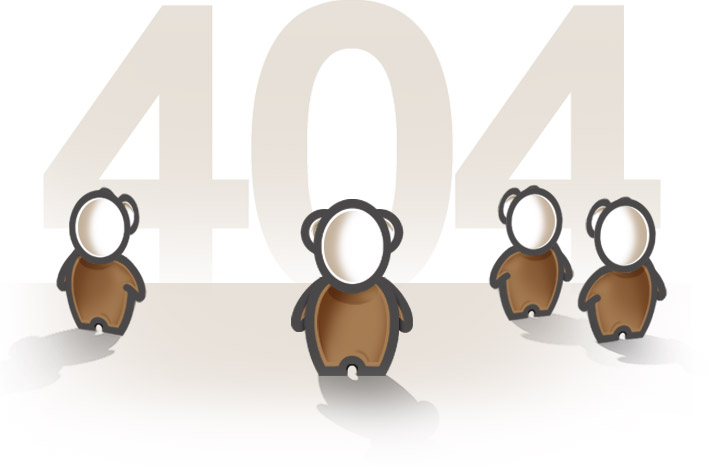
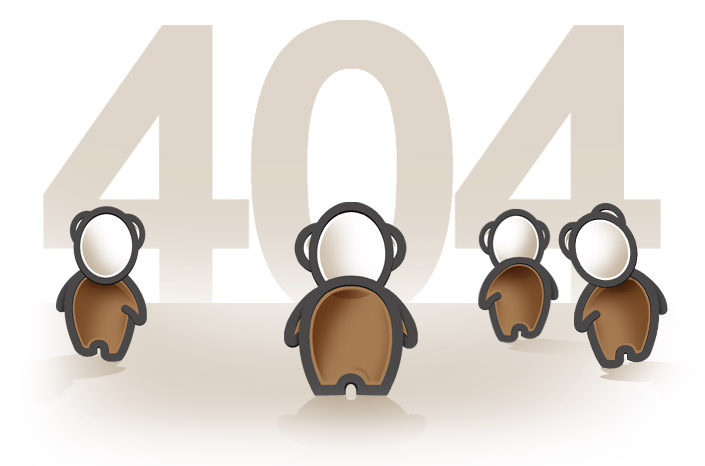
Corrections diverses, formulaire auteur
git-svn-id: http://svn.pierrebertet.net/lesintegristes_wptheme/trunk@55 156c5556-8ead-41bd-8221-c85054dfef69

diff --git a/style.css b/style.css
@@ -68,16 +68,13 @@ body,button,input,textarea{font:14px/24px Verdana, Helvetica, sans-serif;color:#
 pre,code{font:12px/24px "DejaVuSansMonoBook", "Courier New", monospace;color:#494949;background:#ece4d6;}
 code{display:inline-block;padding:0 6px;line-height:22px;vertical-align:bottom;}
 pre code{display:block;position:static;padding:0;line-height:24px;}
-/*a code{text-decoration:underline;}*/
+a code{text-decoration:underline;}
 a{color:#83a10f;}
 b,strong{font-weight:bold;}
 i,em{font-style:italic;}
-#content a:hover,
-#sidebar a:hover{color:#96b713;}
+#content a:hover{color:#96b713;}
 #content a:active,
-#content a:focus,
-#sidebar a:active,
-#sidebar a:focus{color:#fff;background:#96b713;}
+#content a:focus{color:#fff;background:#96b713;}
 #wrapper a.action,
 #wrapper .action a{font-style:italic;text-transform:lowercase;color:#494949;}
 #wrapper a.action:hover,
@@ -105,24 +102,46 @@ input[type=text],
 textarea{-moz-box-shadow:inset 2px 2px 2px #aaa;-webkit-box-shadow:inset 2px 2px 2px #aaa;}
 
 /* Hentry */
-.hentry .content h2{font-size:20px;font-weight:bold;margin-top:48px;margin-bottom:24px;color:#494949;}
-.hentry .content h3{font-size:16px;font-weight:bold;margin:24px 0;color:#857e76;}
-.hentry .content h4{font-weight:bold;margin:24px 0;color:#857e76;}
-.hentry .content h5{margin:24px 0;color:#857e76;}
-.hentry .content h6{margin:24px 0;font-style:italic;color:#857e76;}
-.hentry .content ul{margin:24px 0;padding-left:40px;}
+.hentry .content h2{font-size:20px;font-weight:bold;padding-top:48px;margin:-24px 0 24px;color:#494949;}
+.hentry .content h3{font-size:16px;font-weight:bold;padding-top:24px;margin:-24px 0 24px;color:#857e76;}
+.hentry .content h4{font-weight:bold;padding-top:24px;margin:-24px 0 24px;color:#857e76;}
+.hentry .content h5{padding-top:24px;margin:-24px 0 24px;color:#857e76;}
+.hentry .content h6{padding-top:24px;margin:-24px 0 24px;font-style:italic;color:#857e76;}
+.hentry .content ul,
+.hentry .content ol{margin:0 0 24px;padding-left:40px;}
 .hentry .content ul li{padding-left:18px;background:url(i/bullet.png) no-repeat 0 10px;}
-.hentry .content ol{padding-left:40px;}
 .hentry .content ol li{list-style:inside decimal;}
 .hentry .content dl{padding-left:40px;}
 .hentry .content dl dt{margin-left:-10px;font-weight:bold;}
 .hentry .content pre{overflow-x:auto;margin-bottom:24px;}
 .hentry .content a code{padding:0;background:none;color:inherit;}
 .hentry .content blockquote{margin-bottom:24px;padding:36px 36px 36px;font:italic 16px/24px Georgia, Times, serif;text-indent:14px;color:#857e76;background:url(i/quote-open.png) no-repeat 16px 16px;background:url(i/quote-open.png) no-repeat 16px 16px, url(i/quote-close.png) no-repeat 100% 100%;background-color:#ece4d6;}
-.hentry .content img{vertical-align:bottom;outline:3px solid #ece4d6;}
-.hentry .content figure{display:inline-block;padding-bottom:12px;text-align:center;outline:3px solid #ece4d6;}
-.hentry .content figure img{margin-bottom:12px;outline:0;}
 #content .hentry .content blockquote p{margin:0;}
+#content .hentry .content img{position:relative;left:3px;vertical-align:bottom;outline:3px solid #ece4d6;}
+#content .hentry .content p.img-only{margin-bottom:0;}
+#content .hentry .content img.alignnone,
+#content .hentry .content img.aligncenter{display:block;margin:0 auto;}
+#content .hentry .content img.alignleft{float:left;margin-right:18px;}
+#content .hentry .content img.alignright{float:right;margin-left:18px;}
+#content .hentry .content .wp-caption .wp-caption-text{margin:0;text-align:center;font-size:12px;color:#857e76;}
+#content .hentry .content .wp-caption.alignleft{float:left;margin-right:8px;}
+#content .hentry .content .wp-caption.alignleft .wp-caption-text{padding:0 7px 0 3px;}
+#content .hentry .content .wp-caption.alignright{float:right;margin-left:8px;text-align:right;}
+#content .hentry .content .wp-caption.alignright img{left:auto;right:3px;}
+#content .hentry .content .wp-caption.alignright .wp-caption-text{padding:0 3px 0 7px;}
+#content .hentry .content .wp-caption.aligncenter,
+#content .hentry .content .wp-caption.alignnone{margin:0 auto;}
+.hentry .content h2,
+.hentry .content h3,
+.hentry .content h4,
+.hentry .content h5,
+.hentry .content h6,
+.hentry .content ul,
+.hentry .content dl,
+.hentry .content ol,
+.hentry .content blockquote,
+.hentry .content pre{clear:both;}
+
 
 /* Buttons */
 a.button{display:inline-block;text-decoration:none;}
@@ -324,7 +343,7 @@ body.meteo-night #wrapper > footer{background-image:url(i/meteo/night/footer.jpg
 #content > h1 + .rss,
 #post-29 > .rss:first-child{margin:0;}
 #content > h1 + .rss a,
-#post-29 > .rss:first-child a{position:absolute;top:4px;right:0;overflow:hidden;display:block;width:22px;height:21px;text-indent:-9999px;color:#494949;background:url(i/rss-icon.png) no-repeat 0 0;}
+#post-29 > .rss:first-child a{position:absolute;top:4px;right:0;overflow:hidden;display:block;width:22px;height:20px;text-indent:-9999px;color:#494949;background:url(i/rss-icon.png) no-repeat 0 0;}
 #content article{float:left;padding:36px 0 0;background:url(i/dashed-h.png) repeat-x 0 0;}
 body.single #content article{float:none;}
 /*#content h1 + article{padding-top:24px;}*/
@@ -425,36 +444,45 @@ body.page-id-29 #content li a:active{color:#fff;background:#6d6a6a;}
 body.page-id-29 #content li > div{padding:24px 12px 36px;background:#ece4d6;}
 
 /* Auteurs */
+#content.page-auteurs section h1{font:30px/48px Georgia, Times, serif;color:#83a10f;}
 #content.page-auteurs section.author{padding:0 0 48px 82px;background:url(i/dashed-h.png) repeat-x 0 0;}
 #content.page-auteurs section.author header{padding:60px 0 0 160px;}
 #content.page-auteurs section.author .content{position:relative;padding:24px 24px 48px 160px;background:#ece4d6;}
-#content.page-auteurs section.author h1{font:30px/48px Georgia, Times, serif;color:#83a10f;}
 #content.page-auteurs section.author h2{position:relative;top:-6px;margin:0;font-size:14px;font-style:italic;color:#494949;}
 #content.page-auteurs section.author .photo{position:absolute;left:20px;top:-60px;}
 #content.page-auteurs section.author .links li{margin-bottom:12px;padding-left:31px;}
+#content.page-auteurs section.author .links li a{color:#857e76;}
+#content.page-auteurs section.author .links li a:hover{color:#a29b94;}
+#content.page-auteurs section.author .links li a:active,
+#content.page-auteurs section.author .links li a:focus{color:#fff;background:#a29b94;}
 #content.page-auteurs section.author .links .home{background:url(i/icon-home.png) no-repeat 0 2px;}
 #content.page-auteurs section.author .links .twitter{background:url(i/icon-twitter.png) no-repeat 0 2px;}
 #content.page-auteurs section.author .mail{margin:36px 0 0 -42px;padding-left:42px;background:url(i/icon-mail.png) no-repeat 0 3px;}
 #content.page-auteurs section.author + .author header{padding-top:24px;}
-#content.page-auteurs p.invitation{margin:0;padding:26px 0 28px;text-align:center;color:#c2bbaf;border:6px solid #494949;border-width:6px 0;}
+#content.page-auteurs p.invitation{margin:0 0 36px;padding:26px 0 28px;text-align:center;color:#c2bbaf;background:url(i/dashed-h.png) repeat-x 0 0;border:6px solid #494949;border-width:0 0 6px;}
 #content.page-auteurs p.invitation strong{font:italic 28px/36px Georgia, Times, serif;}
-#content.page-auteurs section.contact h1{margin-bottom:35px;line-height:31px;font-size:16px;color:#857e76;background:url(i/dashed-h.png) repeat-x 0 100%;}
-#content.page-auteurs section.contact form{overflow:hidden;margin:0 89px;padding:24px 40px 12px;font-style:italic;background:#ece4d6;}
-#content.page-auteurs section.contact form p{float:left;width:100%;line-height:48px;margin-bottom:0;}
-#content.page-auteurs section.contact form p.form-info{margin-bottom:36px;line-height:24px;color:#857e76;}
-#content.page-auteurs section.contact form label{clear:left;float:left;width:94px;margin-top:6px;line-height:36px;white-space:nowrap;font-weight:bold;color:#857e76;}
-#content.page-auteurs section.contact form input[type=text]{width:247px;padding:6px;line-height:24px;text-align:left;border:0;}
-#content.page-auteurs section.contact form textarea{display:block;width:335px;height:240px;margin:9px 0;padding:3px 6px;border:0;} /* WIDTH A REVOIR */
+#content.page-auteurs section.contact h1{margin-bottom:36px;text-align:center;}
+#content.page-auteurs section.contact form{position:relative;float:left;width:473px;margin:0 0 0 105px;padding:24px 30px 12px;font-style:italic;background:#ece4d6;}
+#content.page-auteurs section.contact form p{position:relative;overflow:hidden;width:473px;line-height:48px;margin-bottom:12px;}
+#content.page-auteurs section.contact form p.form-info{margin-left:13px;margin-bottom:36px;line-height:24px;color:#857e76;}
+#content.page-auteurs section.contact form label{clear:left;float:left;width:84px;margin-top:6px;padding-left:10px;line-height:36px;white-space:nowrap;font-weight:bold;color:#857e76;}
+#content.page-auteurs section.contact form input[type=text]{width:247px;padding:7px;line-height:24px;text-align:left;border:0;}
+#content.page-auteurs section.contact form textarea{display:block;width:335px;height:240px;margin:9px 0;padding:3px 7px;border:0;} /* WIDTH A REVOIR */
 #content.page-auteurs section.contact form input[type=text]:focus,
 #content.page-auteurs section.contact form textarea:focus{outline:6px solid #beb6a7;}
 #content.page-auteurs section.contact form p.submit{text-align:right;}
-/*#content.page-auteurs section.contact form .wpcf7-response-output{margin:0;padding:0;border:0;}
+#content.page-auteurs section.contact form .wpcf7-validation-errors{background:#4a4a4a url(i/icon-error.png) no-repeat 437px 9px;}
+#content.page-auteurs section.contact form p.error{background:#4a4a4a;}
+#content.page-auteurs section.contact form p.error label{color:#ece4d6;}
+#content.page-auteurs section.contact form p.error .wpcf7-form-control-wrap{position:static;}
+#content.page-auteurs section.contact form p.error .wpcf7-not-valid-tip-no-ajax{position:absolute;right:0;top:0;width:45px;height:48px;text-indent:-9999px;background:url(i/icon-error.png) no-repeat 9px 9px;}
+#content.page-auteurs section.contact form p.error input[type=text]:focus{outline:0;}
+#content.page-auteurs section.contact form .wpcf7-response-output{position:absolute;top:-36px;left:30px;width:449px;margin:0;padding:12px;font-style:normal;font-weight:bold;color:#ece4d6;background-color:#4a4a4a;border:0;}
 
 /* 404 */
 body.error404 #content{height:566px;background:url(i/404-illu.jpg) no-repeat 0 129px;}
-body.error404 #content h1{margin-bottom:156px;background:url(i/dashed-h.png) repeat-x 0 100%;}
-body.error404 #content p{text-align:center;font:24px/24px Georgia, Times, serif;}
-body.error404 #content p strong{display:block;margin-bottom:24px;font-size:36px;}
+body.error404 #content > p{margin-bottom:180px;text-align:left;font-size:16px;color:#857e76;background:url(i/dashed-h.png) repeat-x 0 100%;}
+body.error404 #content > div h1{text-align:center;font:24px/24px Georgia, Times, serif;}
 
 /* Last articles */
 #content .last-articles{clear:both;float:left;width:100%;padding-top:36px;background:url(i/dashed-h.png) repeat-x 0 0;}
@@ -514,6 +542,7 @@ body.single #content .last-articles{padding-top:24px;margin-bottom:42px;border-b
 #comments article div.avatar{position:absolute;top:0;left:-60px;width:60px;text-align:left;background:url(i/comment-arrow.png) no-repeat 100% 9px;}
 #comments article.blog-author div.avatar{left:-66px;width:66px;background-image:url(i/comment-arrow-author.png);}
 #comments article div.avatar img{border:1px solid #8b8a8a;}
+#comments article.blog-author div.avatar img{border-color:#000;}
 #comments article p.metas{text-align:right;color:#857e76;}
 /* Form */
 #respond{overflow:hidden;padding:24px 40px 12px;font-style:italic;background:#ece4d6;}
@@ -521,12 +550,12 @@ body.single #content .last-articles{padding-top:24px;margin-bottom:42px;border-b
 #respond p:first-child{margin-bottom:36px;line-height:24px;color:#857e76;}
 #respond p.no-comments{margin:0;font-style:normal;}
 #respond label{clear:left;float:left;width:183px;margin-top:6px;line-height:36px;white-space:nowrap;font-weight:bold;color:#857e76;}
-#respond input[type=text]{width:247px;padding:6px;line-height:24px;text-align:left;border:0;}
+#respond input[type=text]{width:247px;padding:7px;line-height:24px;text-align:left;border:0;}
 #respond textarea{display:block;width:428px;height:360px;margin:9px 0;padding:3px 6px;border:0;}
 #respond input[type=text]:focus,
 #respond textarea:focus{outline:6px solid #beb6a7;}
 #respond .comment{position:relative;z-index:2;margin-bottom:0;}
-#respond .html-help{position:relative;top:-9px;z-index:1;width:446px;margin:0 0 -9px 177px;padding-top:9px;line-height:24px;font-size:12px;color:#857e76;background:#ddd2c4;}
+#respond .html-help{position:relative;top:-9px;z-index:1;width:440px;margin:0 0 -9px 183px;padding-top:9px;line-height:24px;font-size:12px;color:#857e76;background:#ddd2c4;}
 #respond .html-help span{display:block;padding:12px;}
 #respond .html-help code{display:inline;color:#857e76;background:none;}
 #respond .subscribe-to-comments label{float:none;width:auto;line-height:24px;white-space:normal;}

diff --git a/scripts/single.js b/scripts/single.js
@@ -6,18 +6,25 @@
   	var $imgs = $("#content article.hentry > div.content img").each(function(){
   	  var $this = $(this),
   	      thisHeight = $this.height(),
-  	      $target = ($this.parent().is("a,figure"))? $this.parent() : $this,
-  	      additionnlMargin = 24 - thisHeight % 24;
+  	      $target = ($this.parent().is("a,div.wp-caption"))? $this.parent() : $this,
+  	      additionnalMargin = 24 - thisHeight % 24,
+  	      mode = "margin";
   	  
-  	  if (additionnlMargin <= 10) {
-  	    additionnlMargin += 24;
+  	  if (!$target.is(".wp-caption") && !$target.is("img.alignleft") && !$target.is("img.alignright") && additionnalMargin < 10) {
+  	    additionnalMargin += 24;
   	  }
   	  
-  	  $target.css({
-  	    "display": "inline-block",
-  	    "marginBottom": additionnlMargin + "px"
-  	  });
+  	  if ($target.is("a")) {
+  	    
+  	    if (!$target.parent().is(".img-only")) {
+  	      $target.css("display", "inline-block");
+  	    } else {
+  	      $target = $target.parent();
+  	      mode = "padding";
+  	    }
+	    }
   	  
+  	  $target.css(mode + "Bottom", additionnalMargin + "px");
   	});
     
     /* HTML Help animation */

diff --git a/styles/sh-lesintegristes.css b/styles/sh-lesintegristes.css
@@ -27,8 +27,8 @@
 .syntaxhighlighter .toolbar .item.about{display:none !important;}
 
 .syntaxhighlighter .toolbar{padding:0 !important;}
-.syntaxhighlighter .toolbar .item.viewSource{position:absolute;left:-9999px;width:55px !important;height:50px !important;margin:0 !important;color:#857e76 !important;background-image:url(../i/show-code.png) !important;}
-.syntaxhighlighter .toolbar .item.viewSource:active{background-position:0 -50px !important;}
+.syntaxhighlighter .toolbar .item.viewSource{position:absolute;left:-9999px;width:43px !important;height:45px !important;margin:0 !important;color:#857e76 !important;background-image:url(../i/show-code.png) !important;}
+.syntaxhighlighter .toolbar .item.viewSource:active{background-position:0 -45px !important;}
 .syntaxhighlighter .toolbar .item.viewSource:focus,
 .syntaxhighlighter .bar.show .toolbar .item.viewSource{left:auto;right:8px;}
 

diff --git a/header.php b/header.php
@@ -12,6 +12,10 @@
 	<head>
 		<meta http-equiv="Content-Type" content="<?php bloginfo('html_type'); ?>; charset=<?php bloginfo('charset'); ?>" />
 		<title><?php wp_title('&laquo;', true, 'right'); ?> <?php bloginfo('name'); ?></title>
+		<link rel="shortcut icon" href="<?php bloginfo('template_url'); ?>/images/favicon.ico" />
+		<link rel="icon" type="image/x-icon" href="<?php bloginfo('template_url'); ?>/images/favicon.ico" />
+		<link rel="icon" type="image/png" href="<?php bloginfo('template_url'); ?>/images/favicon.png" />
+		<link rel="apple-touch-icon" href="<?php bloginfo('template_url'); ?>/images/apple-touch-icon.png"/>
 		<!--[if !IE 6]><!--><link rel="stylesheet" href="<?php bloginfo('stylesheet_url'); ?>" type="text/css" media="all" /><!--<![endif]-->
 		<!--[if IE 6]><link rel="stylesheet" href="<?php bloginfo('template_url'); ?>/styles/ie6-universal.0.3.css" media="all" /><![endif]-->
 		<link rel="stylesheet" href="<?php bloginfo('template_url'); ?>/styles/syntax-highlighter.css" media="all" />

diff --git a/page-auteurs.php b/page-auteurs.php
@@ -46,10 +46,10 @@ get_header();
 		<p class="invitation"><strong>Les Intégristes est un blog ouvert à tous,<br /> n’hésitez pas à nous contacter<br /> pour participer à sa rédaction. :)</strong></p>
 		
 		<section class="contact">
-			<h1>Contactez-nous</h1>
+			<h1>Contactez-nous&nbsp;!</h1>
 			<?php the_content(); ?>
 		</section>
-		
+		<script type="text/javascript">jQuery("section.contact span.wpcf7-not-valid-tip-no-ajax").closest("p").addClass("error");</script>
 	<?php endwhile; endif; ?>
 </div>
 <?php get_sidebar(); ?>

diff --git a/functions.php b/functions.php
@@ -70,7 +70,8 @@ add_action("init", "lesintegristes_meteo_init");
 
 /* Remove <img> and <figure> */
 function lesintegristes_remove_img_and_figure($content) {
-	$content = preg_replace('@<figure[^>]*?>.*?</figure>@si', '', $content);
+	$content = apply_filters('the_content', $content);
+	$content = preg_replace('@<p class="wp-caption-text">.*?</p>@si', '', $content);
 	$content = preg_replace('/<img[^>]+./','', $content);
 	return $content;
 }

diff --git a/404.php b/404.php
@@ -1,10 +1,9 @@
 <?php get_header(); ?>
 <div id="content" role="main">
-	<h1>La page n'a pas été trouvée.</h1>
-	<p>
-		<strong>Erreur 404</strong>
-		La page demandée n’a pas été trouvée.
-  </p>
+	<p>Oh non&nbsp;!</p>
+	<div>
+		<h1>Erreur 404&nbsp;: la page demandée n’a pas été trouvée.</h1>
+	</div>
 </div>
 <?php get_sidebar(); ?>
 <?php get_footer(); ?>
